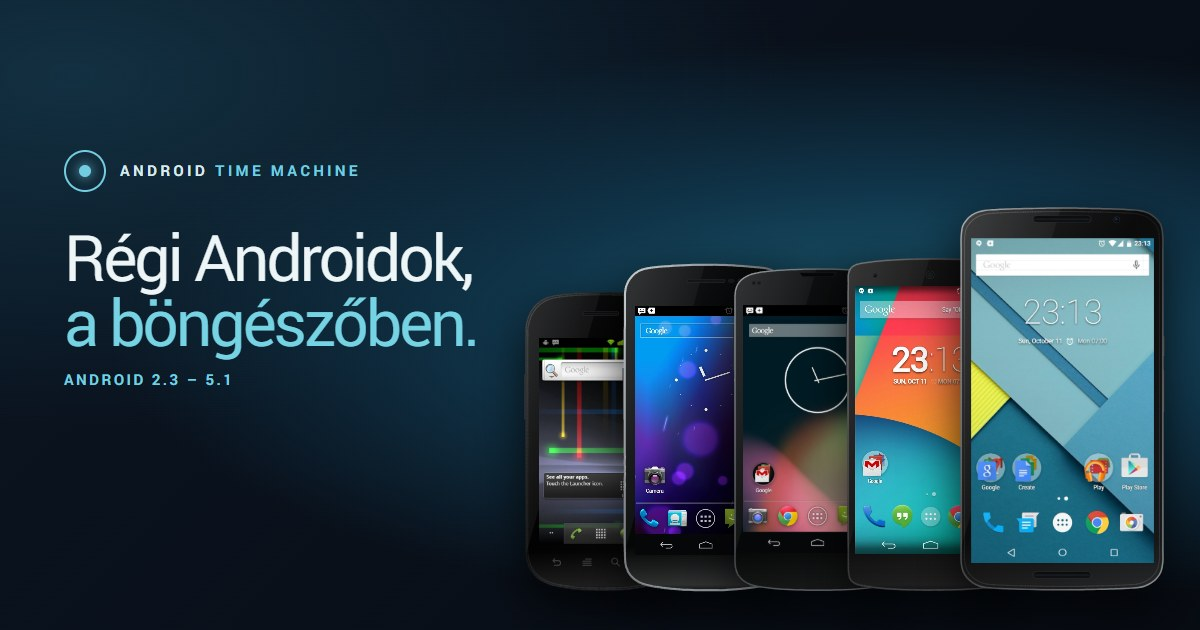
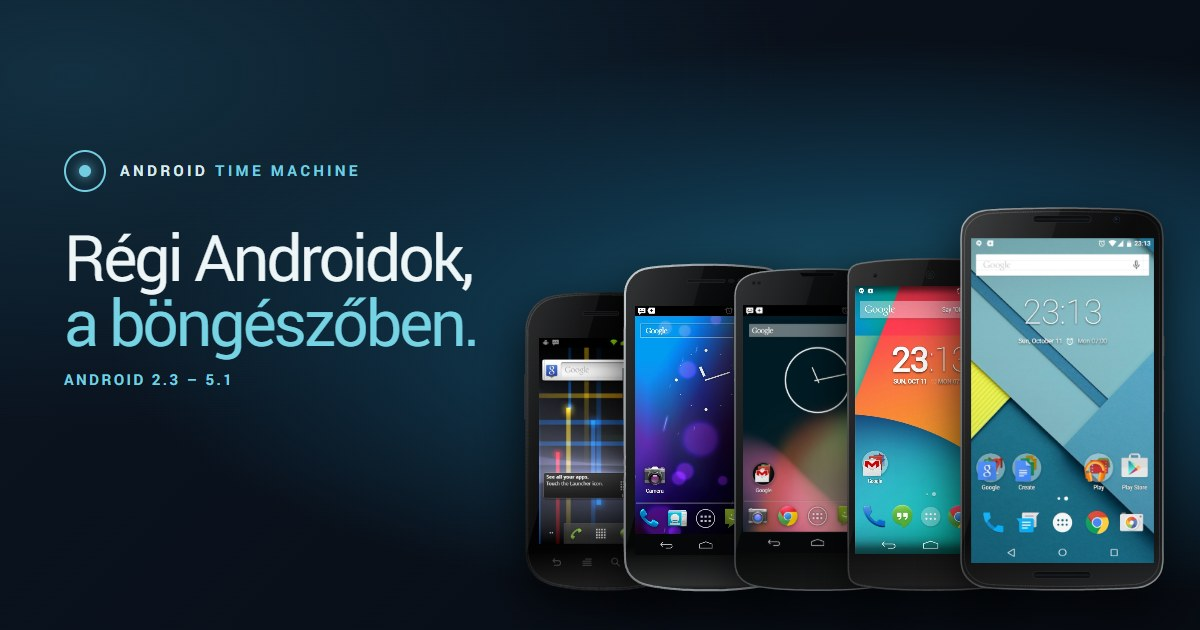
2.3.6 landing shot with the Google g search widget; OG cover redrawn

Changed region(s): [[0.4317, 0.5429, 0.5242, 0.754], [0.4317, 0.7841, 0.5242, 0.8444]]

diff --git a/index.html b/index.html
@@ -12,7 +12,7 @@
   <meta property="og:title" content="Android Time Machine – régi Androidok a böngészőben">
   <meta property="og:description" content="Android 2.3–5.1 a Nexus S-en, a Galaxy Nexuson, a Nexus 4-en, a Nexus 5-ön és a Nexus 6-on: kezdőképernyő, értesítések, beállítások és alkalmazások – telepítés nélkül.">
   <meta property="og:url" content="https://android.levente.net/">
-  <meta property="og:image" content="https://android.levente.net/assets/og-cover.jpg?v=13">
+  <meta property="og:image" content="https://android.levente.net/assets/og-cover.jpg?v=14">
   <meta property="og:image:type" content="image/jpeg">
   <meta property="og:image:width" content="1200">
   <meta property="og:image:height" content="630">
@@ -21,7 +21,7 @@
   <link rel="icon" type="image/svg+xml" href="favicon.svg">
   <link rel="stylesheet" href="styles.css?v=20">
   <script defer src="i18n.js?v=98"></script>
-  <script defer src="versions/catalog.js?v=30"></script>
+  <script defer src="versions/catalog.js?v=31"></script>
   <script defer src="app.js?v=11"></script>
 </head>
 <body>

diff --git a/versions/2.3.6/index.html b/versions/2.3.6/index.html
@@ -12,7 +12,7 @@
   <meta property="og:title" content="Android 2.3.6 Gingerbread – Nexus S szimulátor">
   <meta property="og:description" content="Érintőgombok az üveg alatt, csúszkás zárolóképernyő, a Menü gombbal nyíló opciópanelek, zöld állapotikonok és a zombi Gingerbread húsvéti tojás.">
   <meta property="og:url" content="https://android.levente.net/versions/2.3.6/">
-  <meta property="og:image" content="https://android.levente.net/assets/og-cover.jpg?v=13">
+  <meta property="og:image" content="https://android.levente.net/assets/og-cover.jpg?v=14">
   <meta property="og:image:type" content="image/jpeg">
   <meta property="og:image:width" content="1200">
   <meta property="og:image:height" content="630">

diff --git a/versions/4.0.4/index.html b/versions/4.0.4/index.html
@@ -12,7 +12,7 @@
   <meta property="og:title" content="Android 4.0.4 Ice Cream Sandwich – Galaxy Nexus szimulátor">
   <meta property="og:description" content="Holo dizájn, képernyős navigációs gombok, mappák, kamera a zárolóképernyőről és a Nyandroid húsvéti tojás.">
   <meta property="og:url" content="https://android.levente.net/versions/4.0.4/">
-  <meta property="og:image" content="https://android.levente.net/assets/og-cover.jpg?v=13">
+  <meta property="og:image" content="https://android.levente.net/assets/og-cover.jpg?v=14">
   <meta property="og:image:type" content="image/jpeg">
   <meta property="og:image:width" content="1200">
   <meta property="og:image:height" content="630">

diff --git a/versions/5.1.1/index.html b/versions/5.1.1/index.html
@@ -12,7 +12,7 @@
   <meta property="og:title" content="Android 5.1.1 Lollipop – Nexus 6 szimulátor">
   <meta property="og:description" content="Material Design, Google Now Launcher, felugró értesítések, Áttekintés-kártyák, Smart Lock és a Lollipop Land húsvéti tojás.">
   <meta property="og:url" content="https://android.levente.net/versions/5.1.1/">
-  <meta property="og:image" content="https://android.levente.net/assets/og-cover.jpg?v=13">
+  <meta property="og:image" content="https://android.levente.net/assets/og-cover.jpg?v=14">
   <meta property="og:image:type" content="image/jpeg">
   <meta property="og:image:width" content="1200">
   <meta property="og:image:height" content="630">

diff --git a/versions/4.3/index.html b/versions/4.3/index.html
@@ -12,7 +12,7 @@
   <meta property="og:title" content="Android 4.3 Jelly Bean – Nexus 4 szimulátor">
   <meta property="og:description" content="Kinyitható értesítések, gyorsbeállítások, widgetek a zárolóképernyőn, Daydream és a BeanBag húsvéti tojás.">
   <meta property="og:url" content="https://android.levente.net/versions/4.3/">
-  <meta property="og:image" content="https://android.levente.net/assets/og-cover.jpg?v=13">
+  <meta property="og:image" content="https://android.levente.net/assets/og-cover.jpg?v=14">
   <meta property="og:image:type" content="image/jpeg">
   <meta property="og:image:width" content="1200">
   <meta property="og:image:height" content="630">

diff --git a/versions/4.4.4/index.html b/versions/4.4.4/index.html
@@ -12,7 +12,7 @@
   <meta property="og:title" content="Android 4.4.4 KitKat – Nexus 5 szimulátor">
   <meta property="og:description" content="Google Now Launcher, Google Now, Hangouts, Chrome, áttetsző rendszersávok és a Dessert Case húsvéti tojás.">
   <meta property="og:url" content="https://android.levente.net/versions/4.4.4/">
-  <meta property="og:image" content="https://android.levente.net/assets/og-cover.jpg?v=13">
+  <meta property="og:image" content="https://android.levente.net/assets/og-cover.jpg?v=14">
   <meta property="og:image:type" content="image/jpeg">
   <meta property="og:image:width" content="1200">
   <meta property="og:image:height" content="630">

diff --git a/versions/catalog.js b/versions/catalog.js
@@ -9,7 +9,7 @@ window.ANDROID_VERSIONS = [
     description: 'Touch keys under the glass, the SlidingTab lock screen, option panels behind the Menu key, green status icons and the zombie Gingerbread easter egg.',
     url: 'versions/2.3.6/',
     status: 'available',
-    art: {shot: 'landing-home.jpg?v=7', phone: 'nexuss'}
+    art: {shot: 'landing-home.jpg?v=8', phone: 'nexuss'}
   },
   {
     id: '4.0.4',
